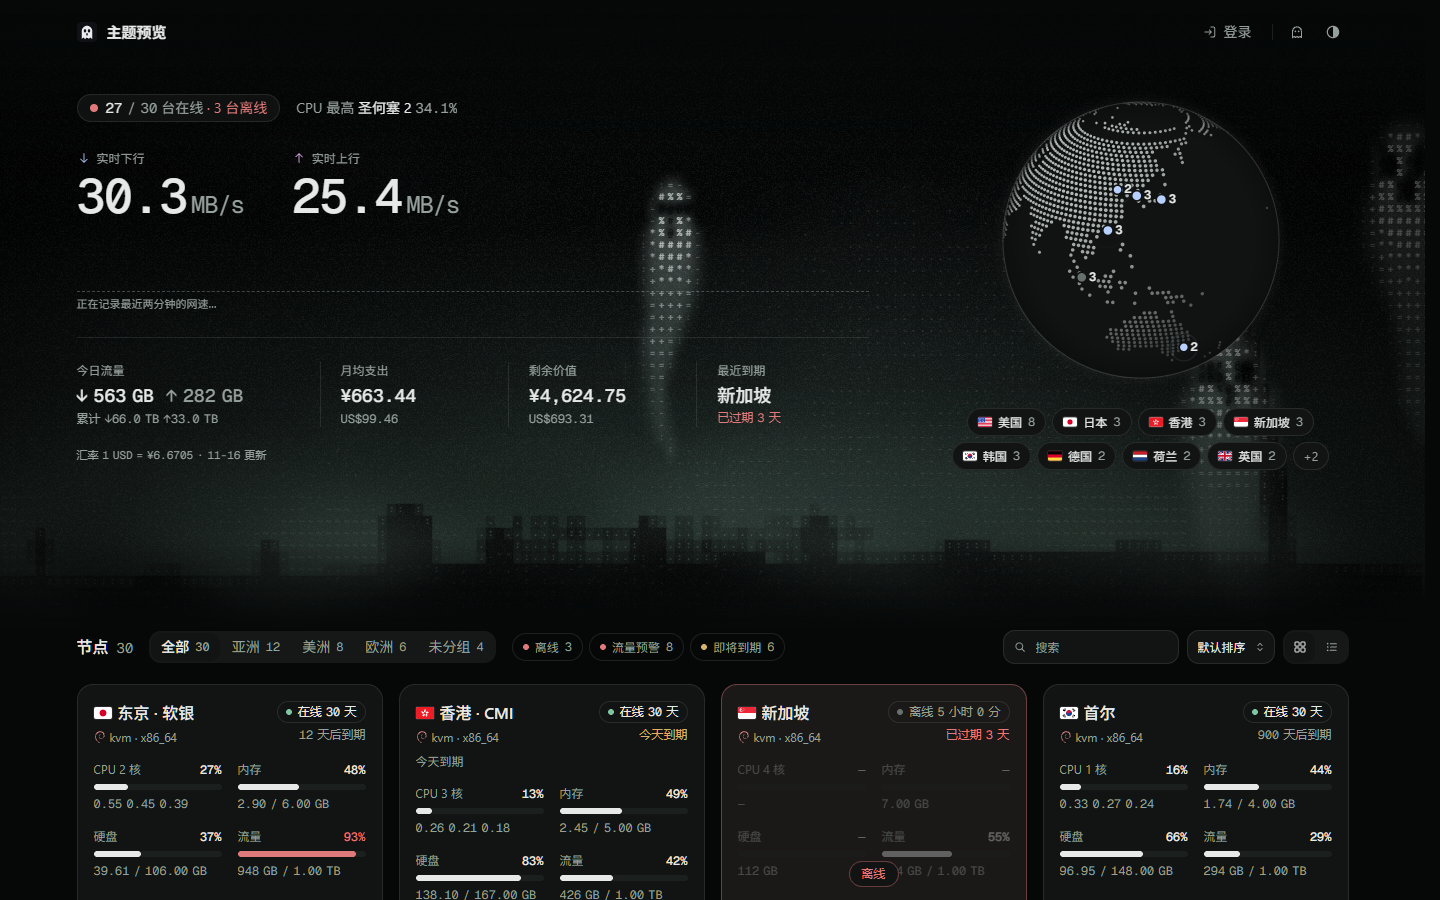
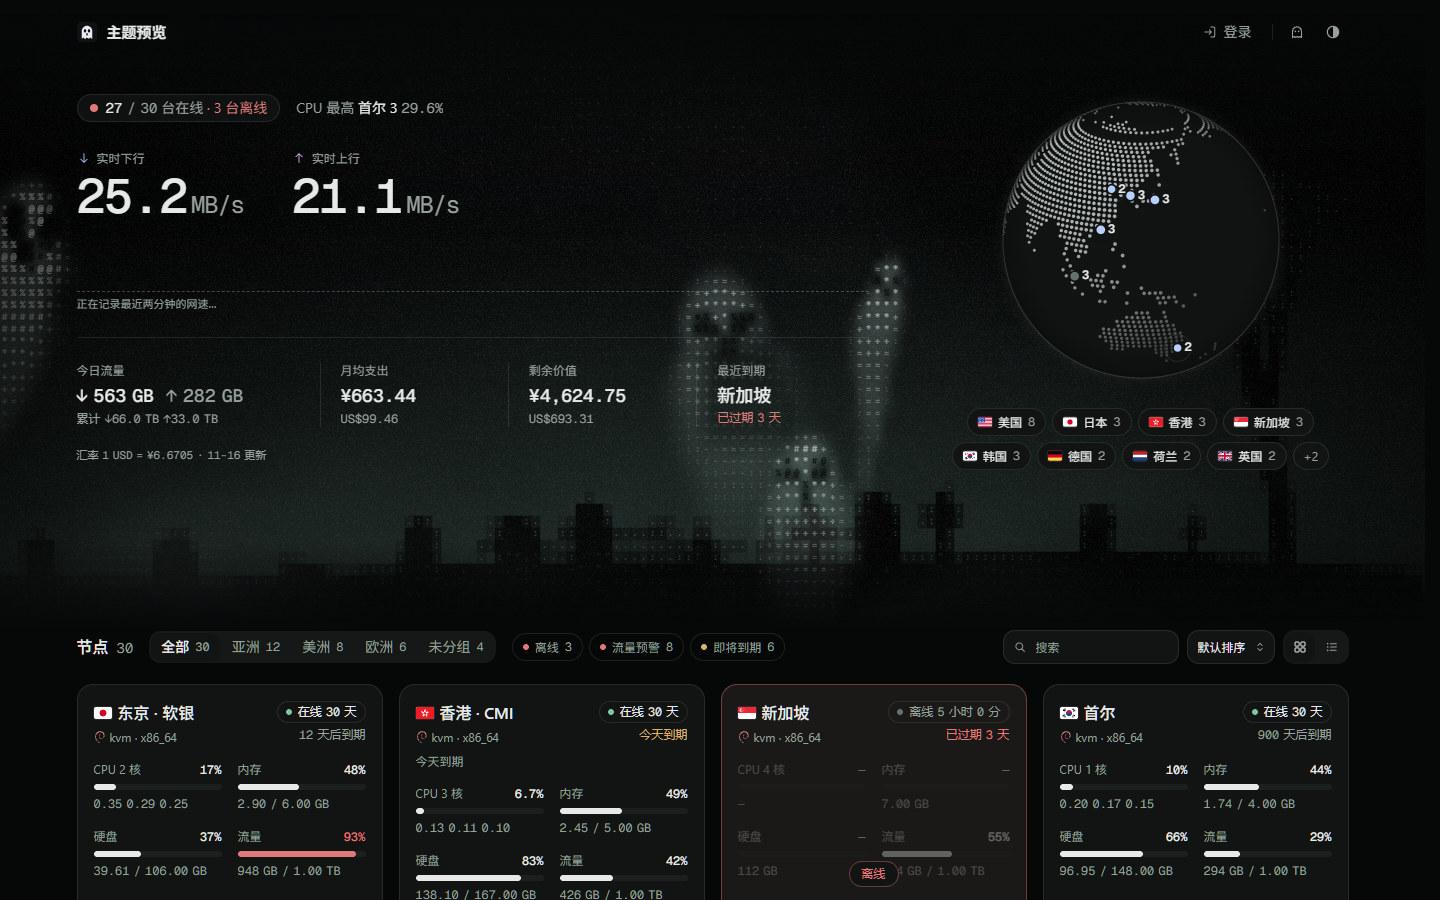
1.2.6: restore spacing between node toolbar and cards
Remove the extra wrapper div around NodeList so its fragment children remain direct children of main's space-y-5.

diff --git a/src/App.tsx b/src/App.tsx
@@ -320,77 +320,73 @@ export default function App() {
           </div>
         )}
 
-        <div key={open ?? "list"} className="view-enter">
-          {open !== null ? (
-            selected ? <NodeHead node={selected} onBack={() => go(null)} /> : <div className="h-28" />
-          ) : !nodes || !config ? (
-            <div className="h-[22rem]" />
-          ) : (
-            <Hero
-              nodes={view.shown}
-              scope={view.inGroup}
-              region={view.region}
-              onRegion={(region) => setFilters({ ...filters, group: view.group, region })}
-              summary={settings.show_summary}
-              globe={settings.show_globe}
-              cost={settings.show_price && settings.show_cost && sorted.some((n) => n.price > 0)}
-              rates={rates}
-              primary={primary}
-            />
-          )}
-        </div>
+        {open !== null ? (
+          selected ? <NodeHead node={selected} onBack={() => go(null)} /> : <div className="h-28" />
+        ) : !nodes || !config ? (
+          <div className="h-[22rem]" />
+        ) : (
+          <Hero
+            nodes={view.shown}
+            scope={view.inGroup}
+            region={view.region}
+            onRegion={(region) => setFilters({ ...filters, group: view.group, region })}
+            summary={settings.show_summary}
+            globe={settings.show_globe}
+            cost={settings.show_price && settings.show_cost && sorted.some((n) => n.price > 0)}
+            rates={rates}
+            primary={primary}
+          />
+        )}
       </div>
 
       <main className="mx-auto w-full max-w-[1320px] flex-1 space-y-5 px-4 pb-10 sm:px-6">
         {error && <p className="text-sm text-destructive">{error}</p>}
 
-        <div key={open ?? "list"} className="view-enter">
-          {open !== null ? (
-            !nodes ? (
-              <Skeleton className="h-96" />
-            ) : selected ? (
-              <Card className="gap-0 p-4 sm:p-6">
-                <Suspense fallback={<Skeleton className="h-96" />}>
-                  <NodeDetail
-                    node={selected}
-                    historyDays={me.history_days ?? 7}
-                    price={settings.show_price}
-                    rates={rates}
-                    primary={primary}
-                  />
-                </Suspense>
-              </Card>
-            ) : (
-              <p className="py-16 text-center text-sm text-muted-foreground">
-                节点不存在或未公开。<button className="underline" onClick={() => go(null)}>返回列表</button>
-              </p>
-            )
-          ) : !nodes || !config ? (
-            <div className="grid gap-4 sm:grid-cols-2 lg:grid-cols-3 xl:grid-cols-4">
-              {[0, 1, 2, 3].map((i) => (
-                <Skeleton key={i} className="h-72" />
-              ))}
-            </div>
+        {open !== null ? (
+          !nodes ? (
+            <Skeleton className="h-96" />
+          ) : selected ? (
+            <Card className="gap-0 p-4 sm:p-6">
+              <Suspense fallback={<Skeleton className="h-96" />}>
+                <NodeDetail
+                  node={selected}
+                  historyDays={me.history_days ?? 7}
+                  price={settings.show_price}
+                  rates={rates}
+                  primary={primary}
+                />
+              </Suspense>
+            </Card>
           ) : (
-            <NodeList
-              nodes={sorted}
-              groups={view.groups}
-              ungrouped={view.ungrouped}
-              group={view.group}
-              shown={view.shown}
-              counts={view.counts}
-              filters={filters}
-              onFilters={setFilters}
-              onOpen={go}
-              toolbar={settings.show_toolbar}
-              price={settings.show_price}
-              rates={rates}
-              primary={primary}
-              view={layout}
-              onView={setLayout}
-            />
-          )}
-        </div>
+            <p className="py-16 text-center text-sm text-muted-foreground">
+              节点不存在或未公开。<button className="underline" onClick={() => go(null)}>返回列表</button>
+            </p>
+          )
+        ) : !nodes || !config ? (
+          <div className="grid gap-4 sm:grid-cols-2 lg:grid-cols-3 xl:grid-cols-4">
+            {[0, 1, 2, 3].map((i) => (
+              <Skeleton key={i} className="h-72" />
+            ))}
+          </div>
+        ) : (
+          <NodeList
+            nodes={sorted}
+            groups={view.groups}
+            ungrouped={view.ungrouped}
+            group={view.group}
+            shown={view.shown}
+            counts={view.counts}
+            filters={filters}
+            onFilters={setFilters}
+            onOpen={go}
+            toolbar={settings.show_toolbar}
+            price={settings.show_price}
+            rates={rates}
+            primary={primary}
+            view={layout}
+            onView={setLayout}
+          />
+        )}
       </main>
 
       <footer className="mx-auto w-full max-w-[1320px] px-4 pt-4 pb-10 text-center text-xs text-muted-foreground sm:px-6">

diff --git a/src/index.css b/src/index.css
@@ -351,25 +351,13 @@
   }
 }
 
-@keyframes view-in {
-  from {
-    opacity: 0;
-    transform: translateY(6px);
-  }
-}
-
 [role="menu"] {
   transform-origin: top right;
   animation: menu-in 150ms cubic-bezier(0.16, 1, 0.3, 1);
 }
 
-.view-enter {
-  animation: view-in 220ms cubic-bezier(0.22, 1, 0.36, 1);
-}
-
 @media (prefers-reduced-motion: reduce) {
-  [role="menu"],
-  .view-enter {
+  [role="menu"] {
     animation: none;
   }
   ::view-transition-old(root),
